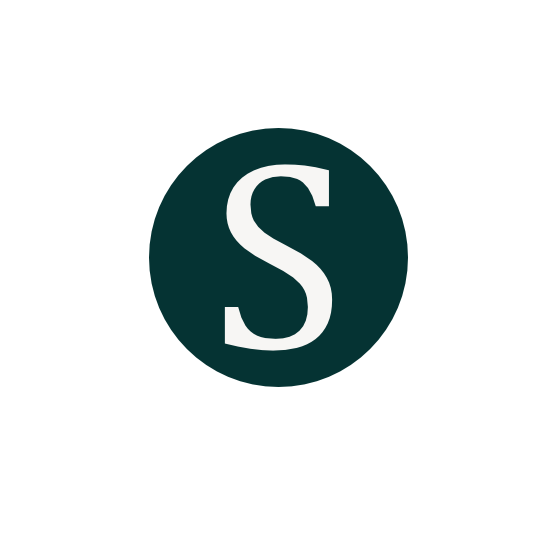
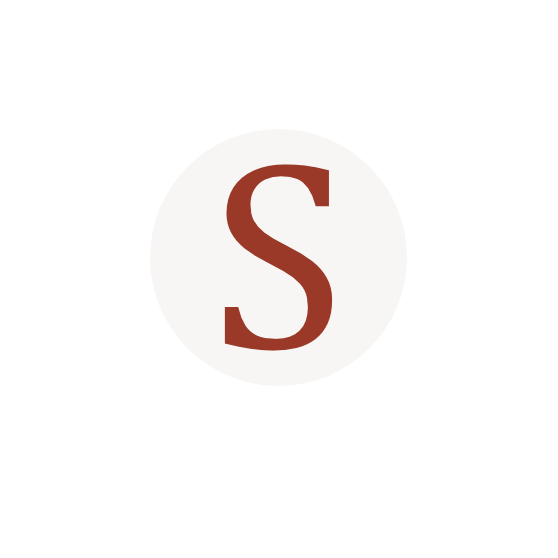
Publish

Changed region(s): [[0.2437, 0.2133, 0.7312, 0.7007]]

diff --git a/2014/08/new-homepage/index.html b/2014/08/new-homepage/index.html
@@ -16,13 +16,12 @@
   <link rel="stylesheet" href="http://olli.saarikivi.fi//css/content.css">
   <link rel="stylesheet" href="http://olli.saarikivi.fi//css/syntax.css">
 
-
   <link rel="apple-touch-icon" sizes="180x180" href="http://olli.saarikivi.fi/apple-touch-icon.png">
   <link rel="icon" type="image/png" href="http://olli.saarikivi.fi/favicon-32x32.png" sizes="32x32">
   <link rel="icon" type="image/png" href="http://olli.saarikivi.fi/favicon-16x16.png" sizes="16x16">
   <link rel="manifest" href="http://olli.saarikivi.fi/manifest.json">
-  <link rel="mask-icon" href="http://olli.saarikivi.fi/safari-pinned-tab.svg" color="#053333">
-  <meta name="theme-color" content="#f7f6f4">
+  <link rel="mask-icon" href="http://olli.saarikivi.fi/safari-pinned-tab.svg" color="#9b3928">
+  <meta name="theme-color" content="#9b3928">
 
   <link href="http://olli.saarikivi.fi/collections/posts/index.xml" rel="alternate" type="application/rss+xml" title="Olli Saarikivi" />
 </head>

diff --git a/404.html b/404.html
@@ -16,13 +16,12 @@
   <link rel="stylesheet" href="http://olli.saarikivi.fi//css/content.css">
   <link rel="stylesheet" href="http://olli.saarikivi.fi//css/syntax.css">
 
-
   <link rel="apple-touch-icon" sizes="180x180" href="http://olli.saarikivi.fi/apple-touch-icon.png">
   <link rel="icon" type="image/png" href="http://olli.saarikivi.fi/favicon-32x32.png" sizes="32x32">
   <link rel="icon" type="image/png" href="http://olli.saarikivi.fi/favicon-16x16.png" sizes="16x16">
   <link rel="manifest" href="http://olli.saarikivi.fi/manifest.json">
-  <link rel="mask-icon" href="http://olli.saarikivi.fi/safari-pinned-tab.svg" color="#053333">
-  <meta name="theme-color" content="#f7f6f4">
+  <link rel="mask-icon" href="http://olli.saarikivi.fi/safari-pinned-tab.svg" color="#9b3928">
+  <meta name="theme-color" content="#9b3928">
 
   <link href="http://olli.saarikivi.fi/collections/posts/index.xml" rel="alternate" type="application/rss+xml" title="Olli Saarikivi" />
 </head>

diff --git a/collections/frontpage/index.html b/collections/frontpage/index.html
@@ -16,13 +16,12 @@
   <link rel="stylesheet" href="http://olli.saarikivi.fi//css/content.css">
   <link rel="stylesheet" href="http://olli.saarikivi.fi//css/syntax.css">
 
-
   <link rel="apple-touch-icon" sizes="180x180" href="http://olli.saarikivi.fi/apple-touch-icon.png">
   <link rel="icon" type="image/png" href="http://olli.saarikivi.fi/favicon-32x32.png" sizes="32x32">
   <link rel="icon" type="image/png" href="http://olli.saarikivi.fi/favicon-16x16.png" sizes="16x16">
   <link rel="manifest" href="http://olli.saarikivi.fi/manifest.json">
-  <link rel="mask-icon" href="http://olli.saarikivi.fi/safari-pinned-tab.svg" color="#053333">
-  <meta name="theme-color" content="#f7f6f4">
+  <link rel="mask-icon" href="http://olli.saarikivi.fi/safari-pinned-tab.svg" color="#9b3928">
+  <meta name="theme-color" content="#9b3928">
 
   <link href="http://olli.saarikivi.fi/collections/posts/index.xml" rel="alternate" type="application/rss+xml" title="Olli Saarikivi" />
 </head>

diff --git a/collections/news/index.html b/collections/news/index.html
@@ -16,13 +16,12 @@
   <link rel="stylesheet" href="http://olli.saarikivi.fi//css/content.css">
   <link rel="stylesheet" href="http://olli.saarikivi.fi//css/syntax.css">
 
-
   <link rel="apple-touch-icon" sizes="180x180" href="http://olli.saarikivi.fi/apple-touch-icon.png">
   <link rel="icon" type="image/png" href="http://olli.saarikivi.fi/favicon-32x32.png" sizes="32x32">
   <link rel="icon" type="image/png" href="http://olli.saarikivi.fi/favicon-16x16.png" sizes="16x16">
   <link rel="manifest" href="http://olli.saarikivi.fi/manifest.json">
-  <link rel="mask-icon" href="http://olli.saarikivi.fi/safari-pinned-tab.svg" color="#053333">
-  <meta name="theme-color" content="#f7f6f4">
+  <link rel="mask-icon" href="http://olli.saarikivi.fi/safari-pinned-tab.svg" color="#9b3928">
+  <meta name="theme-color" content="#9b3928">
 
   <link href="http://olli.saarikivi.fi/collections/posts/index.xml" rel="alternate" type="application/rss+xml" title="Olli Saarikivi" />
 </head>

diff --git a/collections/posts/index.html b/collections/posts/index.html
@@ -16,13 +16,12 @@
   <link rel="stylesheet" href="http://olli.saarikivi.fi//css/content.css">
   <link rel="stylesheet" href="http://olli.saarikivi.fi//css/syntax.css">
 
-
   <link rel="apple-touch-icon" sizes="180x180" href="http://olli.saarikivi.fi/apple-touch-icon.png">
   <link rel="icon" type="image/png" href="http://olli.saarikivi.fi/favicon-32x32.png" sizes="32x32">
   <link rel="icon" type="image/png" href="http://olli.saarikivi.fi/favicon-16x16.png" sizes="16x16">
   <link rel="manifest" href="http://olli.saarikivi.fi/manifest.json">
-  <link rel="mask-icon" href="http://olli.saarikivi.fi/safari-pinned-tab.svg" color="#053333">
-  <meta name="theme-color" content="#f7f6f4">
+  <link rel="mask-icon" href="http://olli.saarikivi.fi/safari-pinned-tab.svg" color="#9b3928">
+  <meta name="theme-color" content="#9b3928">
 
   <link href="http://olli.saarikivi.fi/collections/posts/index.xml" rel="alternate" type="application/rss+xml" title="Olli Saarikivi" />
 </head>

diff --git a/cv/index.html b/cv/index.html
@@ -16,13 +16,12 @@
   <link rel="stylesheet" href="http://olli.saarikivi.fi//css/content.css">
   <link rel="stylesheet" href="http://olli.saarikivi.fi//css/syntax.css">
 
-
   <link rel="apple-touch-icon" sizes="180x180" href="http://olli.saarikivi.fi/apple-touch-icon.png">
   <link rel="icon" type="image/png" href="http://olli.saarikivi.fi/favicon-32x32.png" sizes="32x32">
   <link rel="icon" type="image/png" href="http://olli.saarikivi.fi/favicon-16x16.png" sizes="16x16">
   <link rel="manifest" href="http://olli.saarikivi.fi/manifest.json">
-  <link rel="mask-icon" href="http://olli.saarikivi.fi/safari-pinned-tab.svg" color="#053333">
-  <meta name="theme-color" content="#f7f6f4">
+  <link rel="mask-icon" href="http://olli.saarikivi.fi/safari-pinned-tab.svg" color="#9b3928">
+  <meta name="theme-color" content="#9b3928">
 
   <link href="http://olli.saarikivi.fi/collections/posts/index.xml" rel="alternate" type="application/rss+xml" title="Olli Saarikivi" />
 </head>

diff --git a/index.html b/index.html
@@ -17,13 +17,12 @@
   <link rel="stylesheet" href="http://olli.saarikivi.fi//css/content.css">
   <link rel="stylesheet" href="http://olli.saarikivi.fi//css/syntax.css">
 
-
   <link rel="apple-touch-icon" sizes="180x180" href="http://olli.saarikivi.fi/apple-touch-icon.png">
   <link rel="icon" type="image/png" href="http://olli.saarikivi.fi/favicon-32x32.png" sizes="32x32">
   <link rel="icon" type="image/png" href="http://olli.saarikivi.fi/favicon-16x16.png" sizes="16x16">
   <link rel="manifest" href="http://olli.saarikivi.fi/manifest.json">
-  <link rel="mask-icon" href="http://olli.saarikivi.fi/safari-pinned-tab.svg" color="#053333">
-  <meta name="theme-color" content="#f7f6f4">
+  <link rel="mask-icon" href="http://olli.saarikivi.fi/safari-pinned-tab.svg" color="#9b3928">
+  <meta name="theme-color" content="#9b3928">
 
   <link href="http://olli.saarikivi.fi/collections/posts/index.xml" rel="alternate" type="application/rss+xml" title="Olli Saarikivi" />
 </head>
